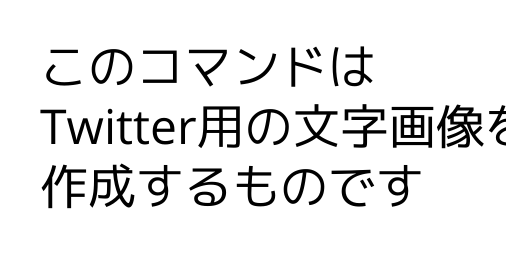
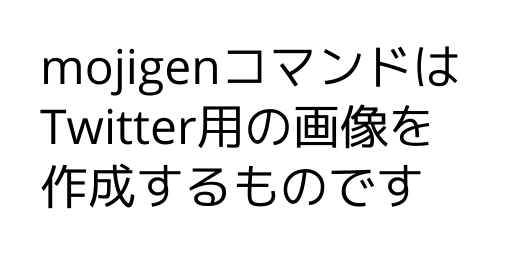
微修正：画像差し替えとTypoなど

Changed region(s): [[0.0889, 0.166, 0.919, 0.3874], [0.5632, 0.415, 1.0, 0.6087]]

diff --git a/config.go b/config.go
@@ -5,7 +5,7 @@ import (
 	"os"
 )
 
-// Config は
+// Config です。だいたい書いてあるとおりです。
 type Config struct {
 	FontPath        string
 	ColorFront      color.Color

diff --git a/README.md b/README.md
@@ -6,7 +6,7 @@
 
 文字からTwitterサイズの画像を生成するコマンドです。
 
-##　使い方
+## 使い方
 
 ### インストール
 
@@ -21,9 +21,9 @@ go install github.com/aimof/mojigen/cmd/mojigen
 mojigen out.png ここにテキストを書いてください
 ```
 
-* Arg[0]: mojigen
-* Arg[1]: output fileのパス
-* Arg[2:]: テキスト
+* `Arg[0]`: mojigen
+* `Arg[1]`: output fileのパス
+* `Arg[2:]`: テキスト
 
 あとは、Twitterに貼り付けるなりなんなり好きにしてください。
 
@@ -34,6 +34,8 @@ mojigen out.png ここにテキストを書いてください
 * 全角時、一行あたり8~9文字が自然に入る文字数です。
 * 高さは自動で調節されます。
 * フォントはKoruriを利用していますが、git submoduleで管理しているので必ず配置してください。
+
+![行あたり文字数](./static/columns.png)
 
 ## LICESNE
 
